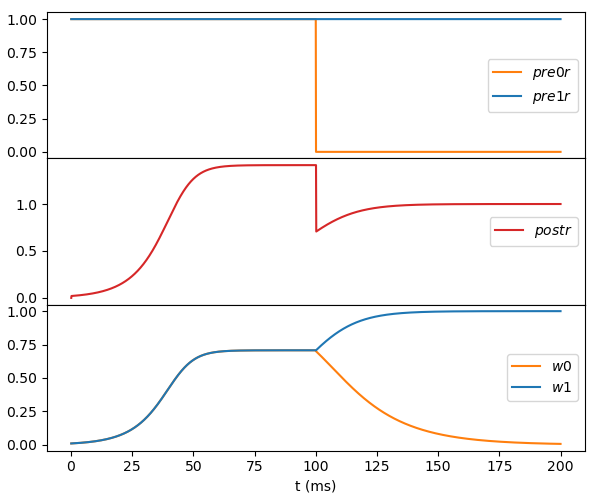
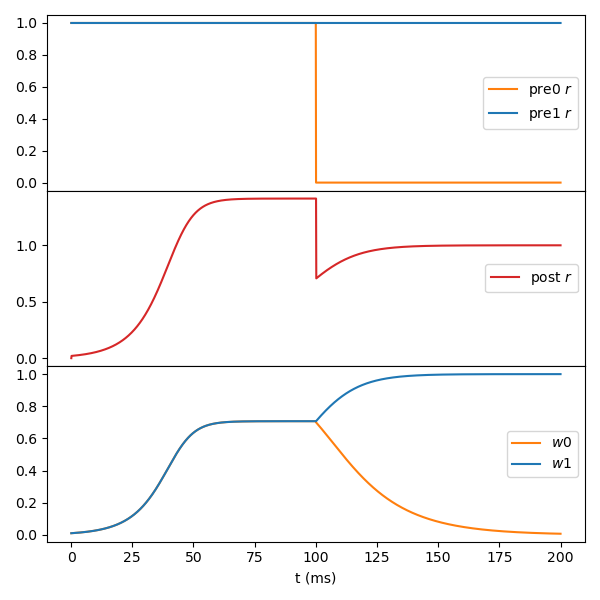
update the BCM model

diff --git a/synapes_models/run_synapse.py b/synapes_models/run_synapse.py
@@ -146,25 +146,25 @@ def run_FR(syn_model, I_pre, dur, **kwargs):
   # 定义突触前神经元、突触后神经元和突触连接，并构建神经网络
   pre = FR(2)
   post = FR(1)
-  syn = syn_model(pre, post, conn=bp.conn.All2All())
-  net = bp.dyn.Network(pre=pre, post=post, syn=syn, **kwargs)
+  syn = syn_model(pre, post, conn=bp.conn.All2All(), **kwargs)
+  net = bp.dyn.Network(pre=pre, post=post, syn=syn)
 
   # 运行模拟
   runner = bp.dyn.DSRunner(net,
                            # inputs=[('pre.input', I_pre.T, 'iter'), ('post.input', I2, 'iter')],
                            inputs=[('pre.input', I_pre.T, 'iter')],
-                           monitors=['pre.r', 'post.r', 'syn.w'], jit=False)
+                           monitors=['pre.r', 'post.r', 'syn.w'])
   runner(dur)
 
   # 可视化
   fig, gs = plt.subplots(3, 1, figsize=(6, 6))
 
   plt.sca(gs[0])
-  plt.plot(runner.mon.ts, runner.mon['pre.r'][:, 0], label='$pre0 r$', color=u'#ff7f0e')
-  plt.plot(runner.mon.ts, runner.mon['pre.r'][:, 1], label='$pre1 r$', color=u'#1f77b4')
+  plt.plot(runner.mon.ts, runner.mon['pre.r'][:, 0], label='pre0 $r$', color=u'#ff7f0e')
+  plt.plot(runner.mon.ts, runner.mon['pre.r'][:, 1], label='pre1 $r$', color=u'#1f77b4')
 
   plt.sca(gs[1])
-  plt.plot(runner.mon.ts, runner.mon['post.r'], label='$post r$', color=u'#d62728')
+  plt.plot(runner.mon.ts, runner.mon['post.r'], label='post $r$', color=u'#d62728')
 
   plt.sca(gs[2])
   plt.plot(runner.mon.ts, runner.mon['syn.w'][:, 0], label='$w0$', color=u'#ff7f0e')
@@ -180,4 +180,80 @@ def run_FR(syn_model, I_pre, dur, **kwargs):
   plt.subplots_adjust(hspace=0.)
   plt.show()
 
-  print(runner.mon['syn.w'][:, 0][:20])
+  def run_FR(syn_model, I_pre, dur, **kwargs):
+    # 定义突触前神经元、突触后神经元和突触连接，并构建神经网络
+    pre = FR(2)
+    post = FR(1)
+    syn = syn_model(pre, post, conn=bp.conn.All2All())
+    net = bp.dyn.Network(pre=pre, post=post, syn=syn, **kwargs)
+
+    # 运行模拟
+    runner = bp.dyn.DSRunner(net,
+                             # inputs=[('pre.input', I_pre.T, 'iter'), ('post.input', I2, 'iter')],
+                             inputs=[('pre.input', I_pre.T, 'iter')],
+                             monitors=['pre.r', 'post.r', 'syn.w'])
+    runner(dur)
+
+    # 可视化
+    fig, gs = plt.subplots(3, 1, figsize=(6, 6))
+
+    plt.sca(gs[0])
+    plt.plot(runner.mon.ts, runner.mon['pre.r'][:, 0], label='pre0 $r$', color=u'#ff7f0e')
+    plt.plot(runner.mon.ts, runner.mon['pre.r'][:, 1], label='pre1 $r$', color=u'#1f77b4')
+
+    plt.sca(gs[1])
+    plt.plot(runner.mon.ts, runner.mon['post.r'], label='post $r$', color=u'#d62728')
+
+    plt.sca(gs[2])
+    plt.plot(runner.mon.ts, runner.mon['syn.w'][:, 0], label='$w0$', color=u'#ff7f0e')
+    plt.plot(runner.mon.ts, runner.mon['syn.w'][:, 1], label='$w1$', color=u'#1f77b4')
+
+    for i in range(2):
+      gs[i].set_xticks([])
+    for i in range(3):
+      gs[i].legend(loc='center right')
+
+    plt.xlabel('t (ms)')
+    plt.tight_layout()
+    plt.subplots_adjust(hspace=0.)
+    plt.show()
+
+
+def run_BCM(syn_model, I_pre, dur, **kwargs):
+  # 定义突触前神经元、突触后神经元和突触连接，并构建神经网络
+  pre = FR(2)
+  post = FR(1)
+  syn = syn_model(pre, post, conn=bp.conn.All2All(), **kwargs)
+  net = bp.dyn.Network(pre=pre, post=post, syn=syn)
+
+  # 运行模拟
+  runner = bp.dyn.DSRunner(net,
+                           # inputs=[('pre.input', I_pre.T, 'iter'), ('post.input', I2, 'iter')],
+                           inputs=[('pre.input', I_pre.T, 'iter')],
+                           monitors=['pre.r', 'post.r', 'syn.w', 'syn.theta_M'])
+  runner(dur)
+
+  # 可视化
+  fig, gs = plt.subplots(3, 1, figsize=(6, 6))
+
+  plt.sca(gs[0])
+  plt.plot(runner.mon.ts, runner.mon['pre.r'][:, 0], label='pre0 $r$', color=u'#ff7f0e')
+  plt.plot(runner.mon.ts, runner.mon['pre.r'][:, 1], label='pre1 $r$', color=u'#1f77b4')
+
+  plt.sca(gs[1])
+  plt.plot(runner.mon.ts, runner.mon['post.r'], label='post $r$', color=u'#d62728')
+  plt.plot(runner.mon.ts, runner.mon['syn.theta_M'], label='$\\theta_\mathrm{M}$', color='gold')
+
+  plt.sca(gs[2])
+  plt.plot(runner.mon.ts, runner.mon['syn.w'][:, 0], label='$w0$', color=u'#ff7f0e')
+  plt.plot(runner.mon.ts, runner.mon['syn.w'][:, 1], label='$w1$', color=u'#1f77b4')
+
+  for i in range(2):
+    gs[i].set_xticks([])
+  for i in range(3):
+    gs[i].legend(loc='center right')
+
+  plt.xlabel('t (ms)')
+  plt.tight_layout()
+  plt.subplots_adjust(hspace=0.)
+  plt.show()

diff --git a/synapes_models/BCM.py b/synapes_models/BCM.py
@@ -1,12 +1,12 @@
 import brainpy as bp
 import brainpy.math as bm
 
-from run_synapse import run_FR
+from run_synapse import run_BCM
 
 
 class BCM(bp.dyn.TwoEndConn):
-  def __init__(self, pre, post, conn, eta=0.05, eps=0., p=1, y_o=1., E_step=1000,
-               delay_step=0, method='exp_auto', **kwargs):
+  def __init__(self, pre, post, conn, eta=0.01, eps=0., p=1, y_o=1., w_max=2., w_min=-2.,
+               E_step=1000, delay_step=0, method='exp_auto', **kwargs):
     super(BCM, self).__init__(pre=pre, post=post, conn=conn, **kwargs)
     self.check_pre_attrs('r', 'input')
     self.check_post_attrs('r', 'input')
@@ -16,6 +16,8 @@ class BCM(bp.dyn.TwoEndConn):
     self.eps = eps
     self.p = p
     self.y_o = y_o
+    self.w_max = w_max
+    self.w_min = w_min
     self.E_step = E_step
     self.delay_step = delay_step
 
@@ -24,9 +26,8 @@ class BCM(bp.dyn.TwoEndConn):
 
     # 初始化变量
     self.w = bm.Variable(bm.zeros(len(self.pre_ids)) + 1.)
-    self.y_history = bm.Variable(bm.zeros((E_step, self.post.num)))  # 记录过去E_step内y的历史值
-    self.y_sum = bm.Variable(bm.zeros(self.post.num))
-    self.current_step = 0  # 当前步长
+    self.theta_M = bm.Variable(bm.zeros(self.post.num))
+    self.y_history = bm.LengthDelay(self.post.r, E_step)  # 记录过去E_step内y的历史值
     self.delay = bm.LengthDelay(self.pre.r, delay_step)  # 定义一个延迟处理器
 
     # 定义积分函数
@@ -46,26 +47,30 @@ class BCM(bp.dyn.TwoEndConn):
     post_r = bm.syn2post_sum(weight, self.post_ids, self.post.num, )  # 每个突触后神经元k的所有y_k求和
     self.post.r.value += post_r
 
-    # 更新theta_M
-    self.y_sum += self.post.r
-    self.current_step += 1
-    theta_M = bm.Variable(self.y_sum / self.current_step)
-
-    # self.y_history[self.current_step % self.E_step] = self.post.r
-    # # 如果current_step < E_step, 则只选取前current_step个数据求平均，否则选择全部
-    # t_step = min(self.current_step+1, self.E_step)
-    # theta_M = bm.power(bm.mean(self.y_history[:t_step] / self.y_o, axis=0), self.p)
-    # self.current_step += 1
+    current_step = bm.asarray(_t / _dt, dtype=int).value
+    # 将最新的y (post.r)放进y_history
+    self.y_history.update(self.post.r)
+    # 如果current_step < E_step, 则只选取前current_step个数据求平均，否则选择全部
+    t_step = bm.minimum(current_step + 1, self.E_step).value
+    self.theta_M.value = bm.power(bm.sum(self.y_history.data, axis=0) / t_step, self.p)
 
     # 更新w
     w = self.integral(self.w, _t, self.pre.r[self.pre_ids], self.post.r[self.post_ids],
-                                 theta_M[self.post_ids])
+                      self.theta_M[self.post_ids])
+    # 将w限制在[w_min, w_max]范围内
+    w = bm.where(w > self.w_max, self.w_max, w)
+    w = bm.where(w < self.w_min, self.w_min, w)
     self.w.value = w
 
 
 dur = 200.
-I1, _ = bp.inputs.constant_input([(1.5, 10.), (0., 10.)] * 10)
-I2, _ = bp.inputs.constant_input([(0., 10.), (1., 10.)] * 10)
+I1, _ = bp.inputs.constant_input([(1.5, 20.), (0., 20.)] * 5)
+I2, _ = bp.inputs.constant_input([(0., 20.), (1., 20.)] * 5)
 I_pre = bm.stack((I1, I2))
 
-run_FR(BCM, I_pre, dur)
+# dur = 200.
+# I1, _ = bp.inputs.constant_input([(1., 100.), (0., dur - 100.)])
+# I2, _ = bp.inputs.constant_input([(1., dur)])
+# I_pre = bm.stack((I1, I2))
+
+run_BCM(BCM, I_pre, dur, eps=0.002)
